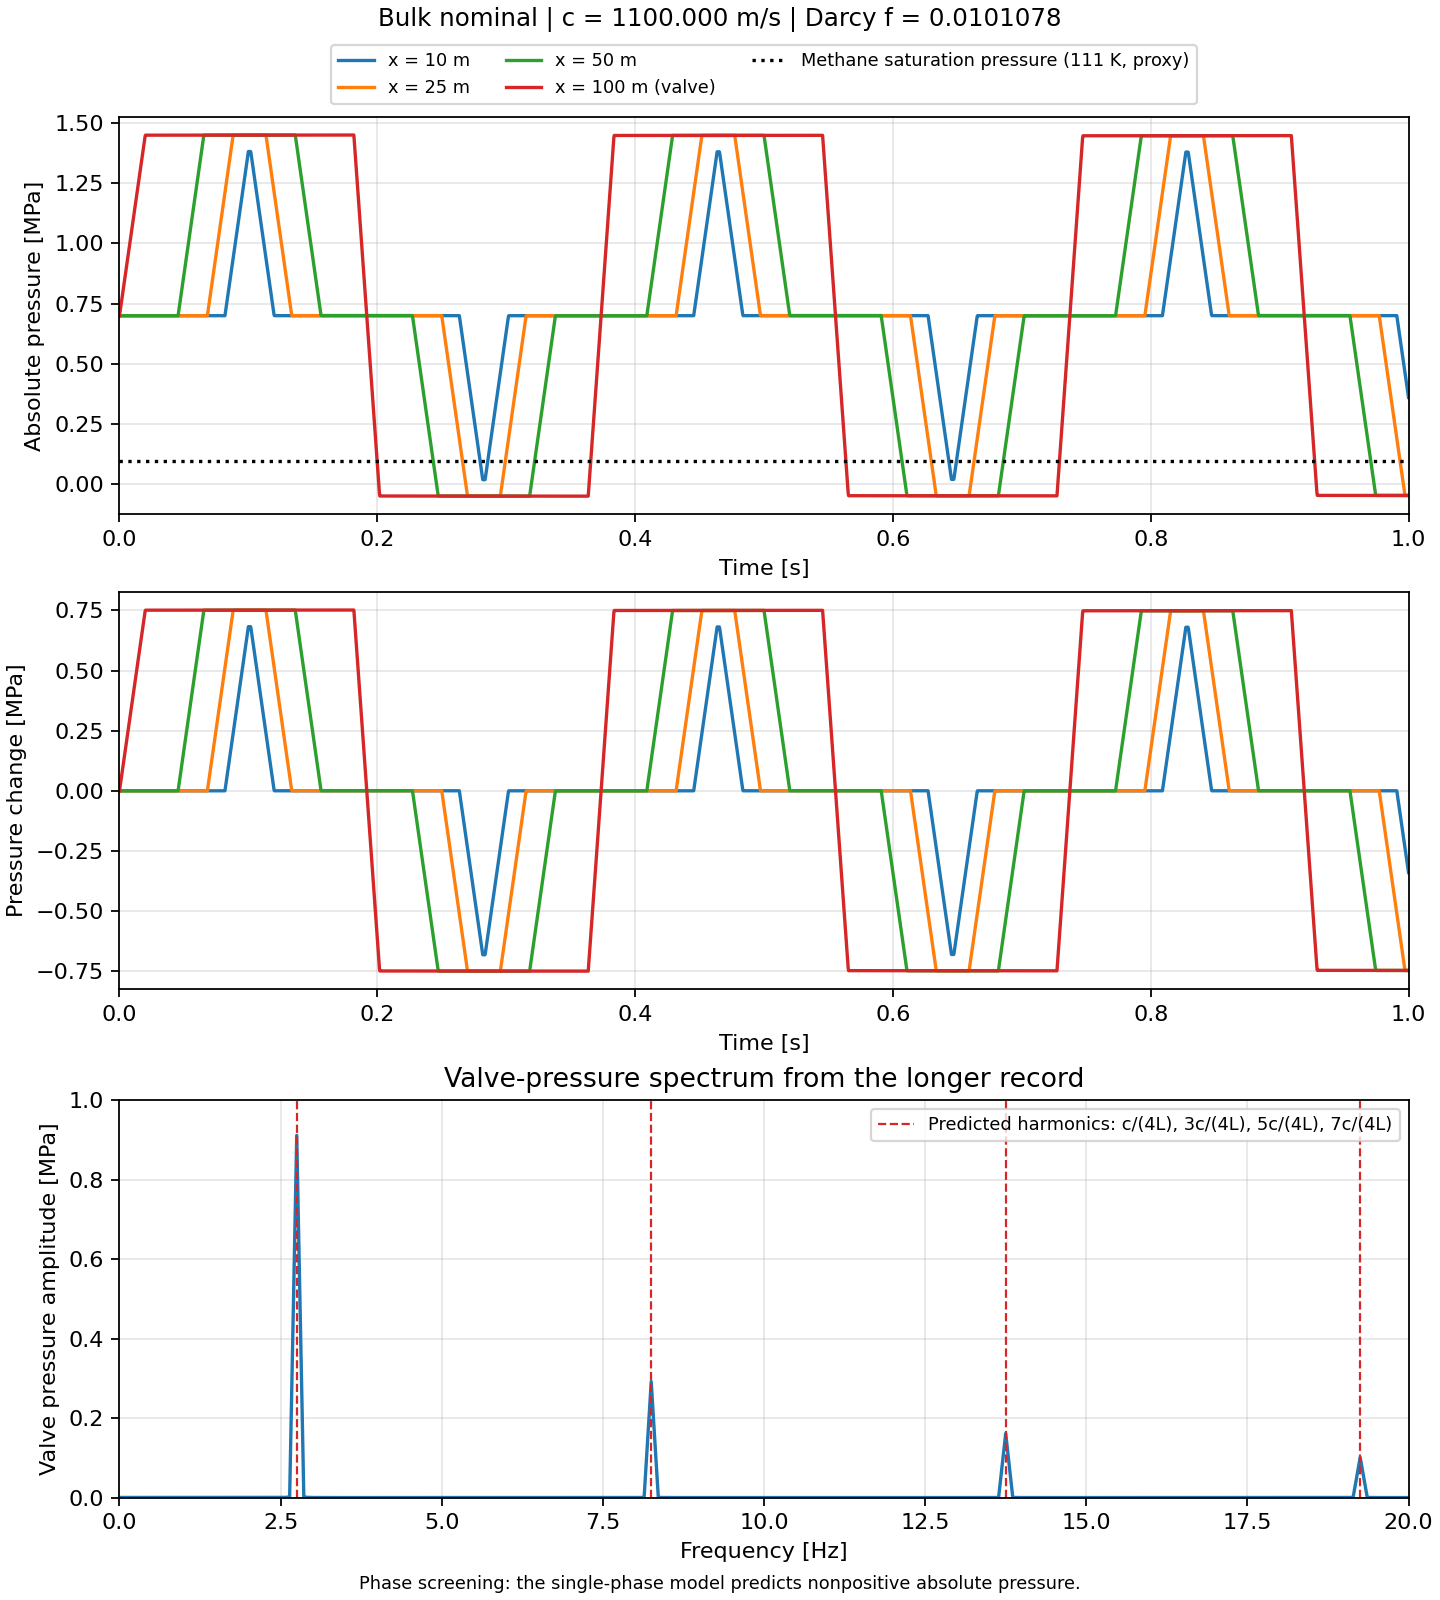
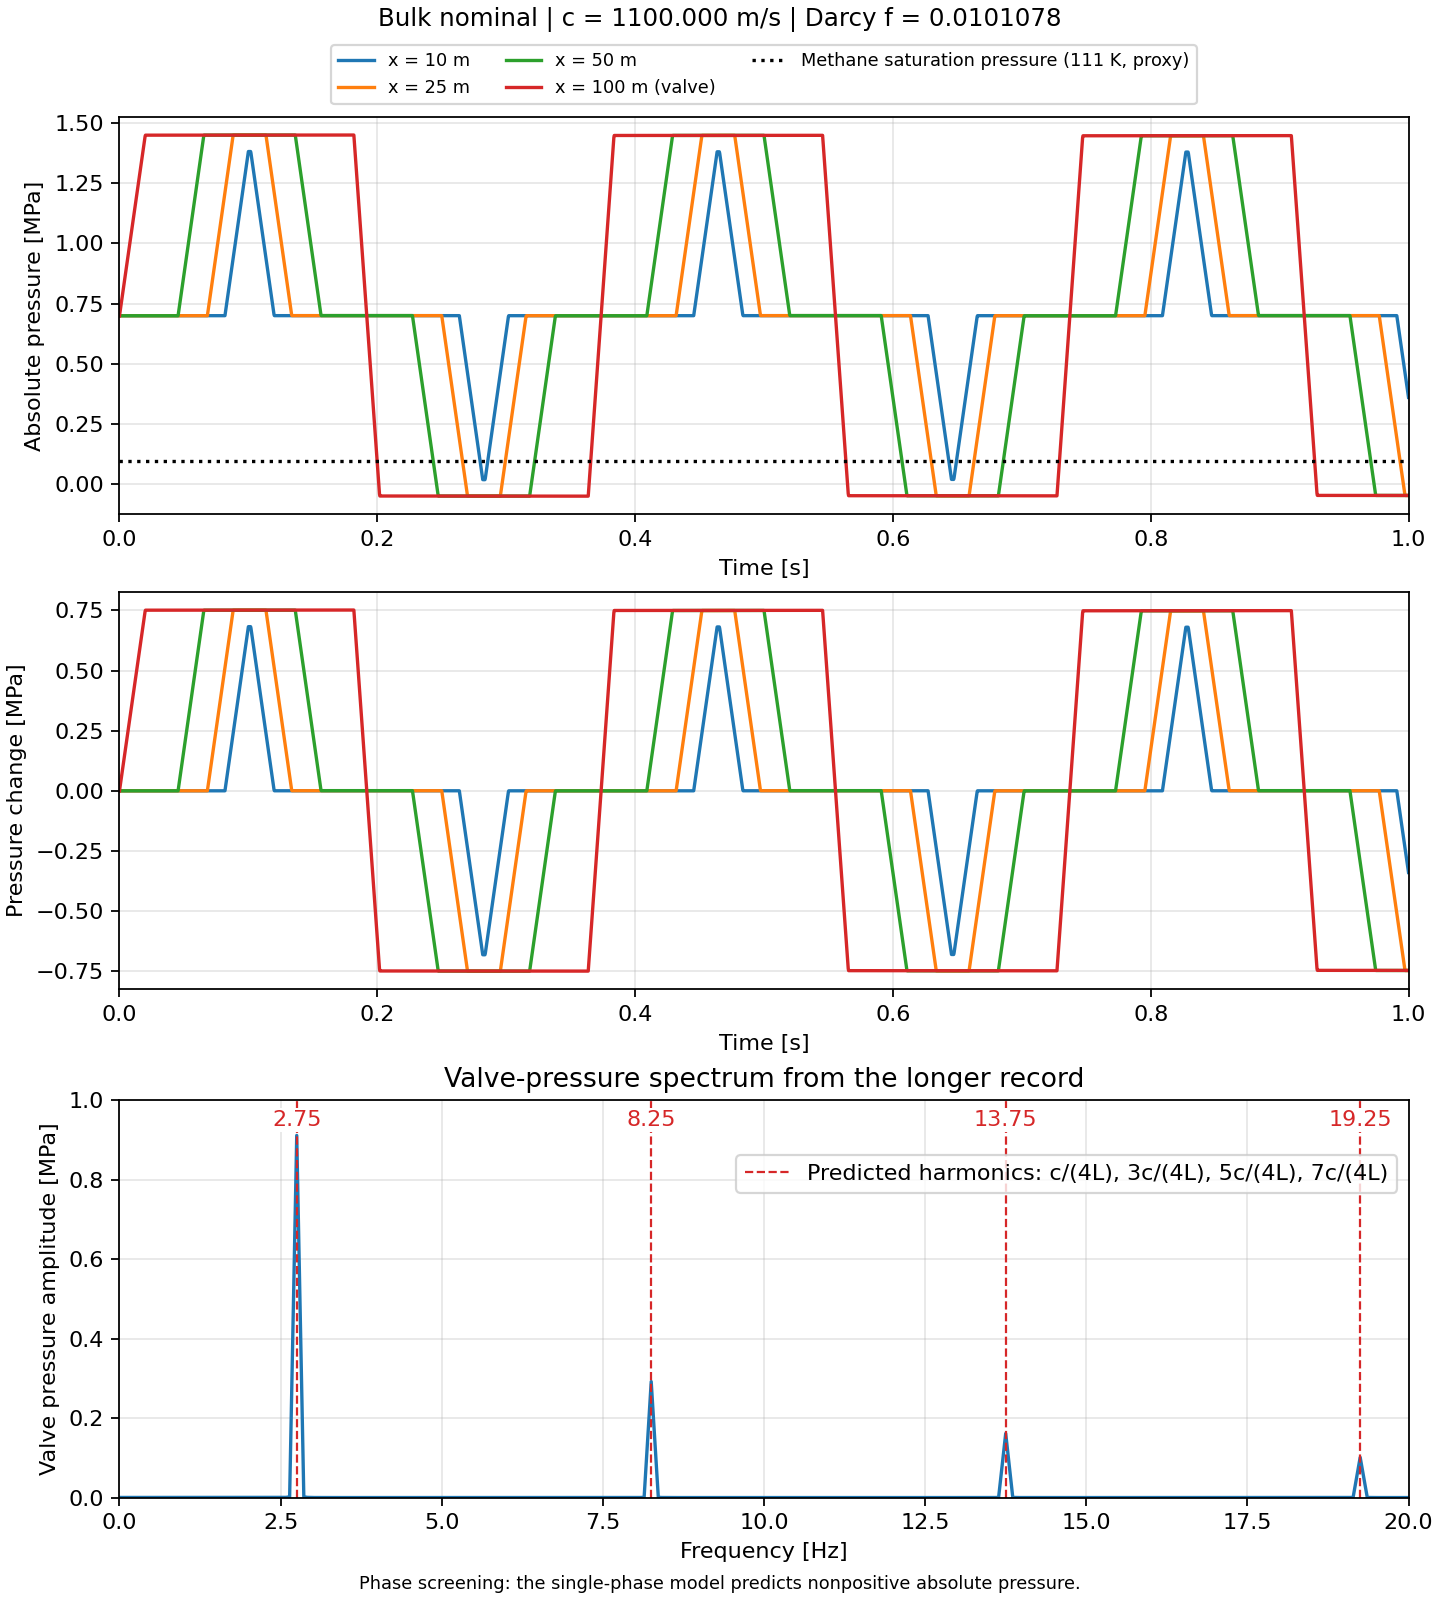
Refine Stage 1 mesh-error and spectrum figures

Changed region(s): [[0.5312, 0.6875, 0.9688, 0.75], [0.4375, 0.6875, 0.4688, 0.7188], [0.1875, 0.6875, 0.2188, 0.7188]]

diff --git a/run_stage1.py b/run_stage1.py
@@ -39,18 +39,27 @@ def metrics(case, result):
             "interpolated_stations": result["interpolated_stations"]}
 
 
-def plot_valve_spectrum(axis, case, frequency, amplitude):
+def plot_valve_spectrum(axis, case, frequency, amplitude, *, label_harmonics=False):
     symbol = "c" if case.speed_mode == "bulk" else "a"
     fundamental = theory(case)["fundamental_hz"]
     axis.plot(frequency, amplitude / 1e6)
     label = f"Predicted harmonics: {symbol}/(4L), 3{symbol}/(4L), 5{symbol}/(4L), 7{symbol}/(4L)"
     for order in (1, 3, 5, 7):
-        axis.axvline(order * fundamental, color="tab:red", ls="--", lw=1,
+        harmonic = order * fundamental
+        axis.axvline(harmonic, color="tab:red", ls="--", lw=1,
                      label=label if order == 1 else None)
+        if label_harmonics:
+            axis.text(harmonic, 0.95, f"{harmonic:.2f}",
+                      transform=axis.get_xaxis_transform(), ha="center", va="center",
+                      color="tab:red", fontsize=10,
+                      bbox={"facecolor": "white", "edgecolor": "none", "pad": 1})
     upper_frequency = max(20, 7 * fundamental + 0.5)
     axis.set(xlabel="Frequency [Hz]", ylabel="Valve pressure amplitude [MPa]",
              xlim=(0, upper_frequency), ylim=(0, 1.0))
-    axis.legend(fontsize=8)
+    if label_harmonics:
+        axis.legend(fontsize=10, loc="upper right", bbox_to_anchor=(1, 0.89))
+    else:
+        axis.legend(fontsize=8)
 
 
 def save_case(directory, name, case, short, frequency, amplitude, *,
@@ -76,7 +85,8 @@ def save_case(directory, name, case, short, frequency, amplitude, *,
     if case.phase_limit is not None:
         axes[0].axhline(case.phase_limit/1e6, color="black", ls=":", label=phase_label)
     axes[0].legend(ncol=3, fontsize=8, loc="lower center", bbox_to_anchor=(0.5, 1.01))
-    plot_valve_spectrum(axes[2], case, frequency, amplitude)
+    plot_valve_spectrum(axes[2], case, frequency, amplitude,
+                        label_harmonics=name == "bulk_nominal")
     axes[2].set_title("Valve-pressure spectrum from the longer record")
     for axis in axes:
         axis.grid(alpha=0.3)

diff --git a/plot_logarithmic_convergence.py b/plot_logarithmic_convergence.py
@@ -33,8 +33,7 @@ def run(source, output=None):
         cases.setdefault(row["case"], []).append(row)
     for values in cases.values():
         values.sort(key=lambda row: int(row["reaches"]))
-    nominal = ("bulk_nominal", "elastic_nominal")
-    if not all(name in cases for name in nominal):
+    if not {"bulk_nominal", "elastic_nominal"}.issubset(cases):
         raise ValueError("Use the researched convergence CSV containing both nominal cases.")
     output.mkdir(parents=True, exist_ok=True)
     # A CSV stores physical values, not axis settings: preserve the original data.
@@ -59,19 +58,18 @@ def run(source, output=None):
 
     fig, axes = plt.subplots(1, 2, figsize=(11, 4.5), constrained_layout=True)
     fields = ("peak_difference_vs_finest_percent", "waveform_difference_vs_finest_percent")
-    for name in nominal:
-        values = cases[name]
-        for axis, field in zip(axes, fields):
-            # The finest grid has no independent difference from itself.
-            compared = [r for r in values if r[field] != ""]
-            axis.plot([int(r["reaches"]) for r in compared],
-                      [float(r[field]) for r in compared], "o-", label=name.replace("_", " ").capitalize())
+    values = cases["bulk_nominal"]
+    for axis, field in zip(axes, fields):
+        # The finest grid has no independent difference from itself.
+        compared = [r for r in values if r[field] != ""]
+        axis.plot([int(r["reaches"]) for r in compared],
+                  [float(r[field]) for r in compared], "o-", label="Bulk nominal")
     for axis in axes:
         logarithmic_x(axis)
         axis.set_yscale("log", base=10)
         axis.axhline(TOLERANCE_PERCENT, color="black", ls="--", label=f"{TOLERANCE_PERCENT:g}% criterion")
         axis.legend(fontsize=8)
-    reference = cases[nominal[0]][-1]["reference_reaches"]
+    reference = values[-1]["reference_reaches"]
     label_refinement_errors(fig, axes, reference)
     fig.savefig(output/"logarithmic_convergence_error.png", dpi=160)
     plt.close(fig)

diff --git a/docs/VALIDATION.md b/docs/VALIDATION.md
@@ -91,3 +91,7 @@ The peak-rise plot reports the first valve pressure rise before the reflected wa
 Bulk figures use c for the supplied sound speed and elastic figures use a for the effective wave speed. The spectral markers show the first four predicted odd harmonics. The 0–1 MPa display includes every peak in the ten benchmark cases. The methane proxy label retains the temperature and phase basis. The figure notes and threshold-crossing shading identify the single-phase continuation.
 
 All 20 tests passed. The full researched and legacy runners and both presentation plotting commands completed using Python 3.12.14, NumPy 2.3.5 and Matplotlib 3.10.8. The tracked CSV contents, benchmark case results and phase flags reproduced exactly. The updated verification report records the current source hashes and code revision.
+
+## Slide figure presentation — 26 November 2026
+
+The logarithmic mesh-error figure shows the nominal bulk case and the 1% line in both panels. The nominal bulk spectrum labels the predicted odd harmonics at 2.75, 8.25, 13.75 and 19.25 Hz. All 20 tests passed, and the full benchmark and logarithmic plotting commands completed with Python 3.12.14, NumPy 2.3.5 and Matplotlib 3.10.8. The numerical benchmark cases, phase flags and selected benchmark CSV contents matched the previous results. The pressure-history panels and the logarithmic peak-rise figure also matched.
